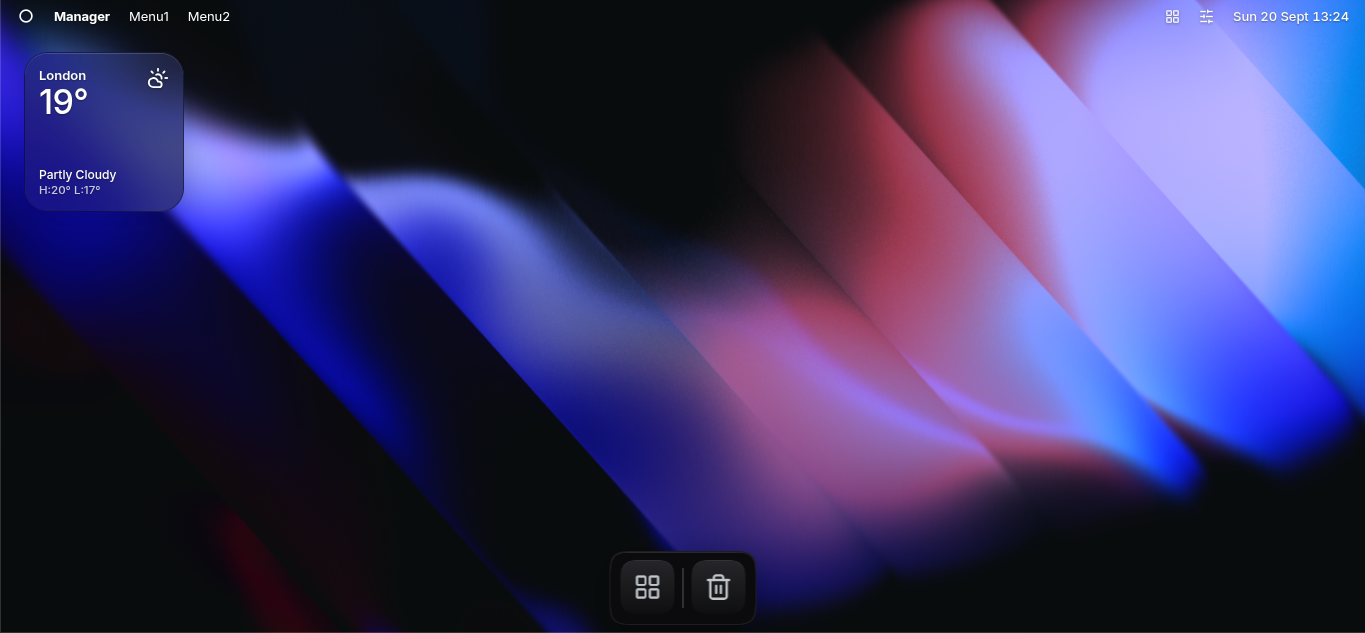
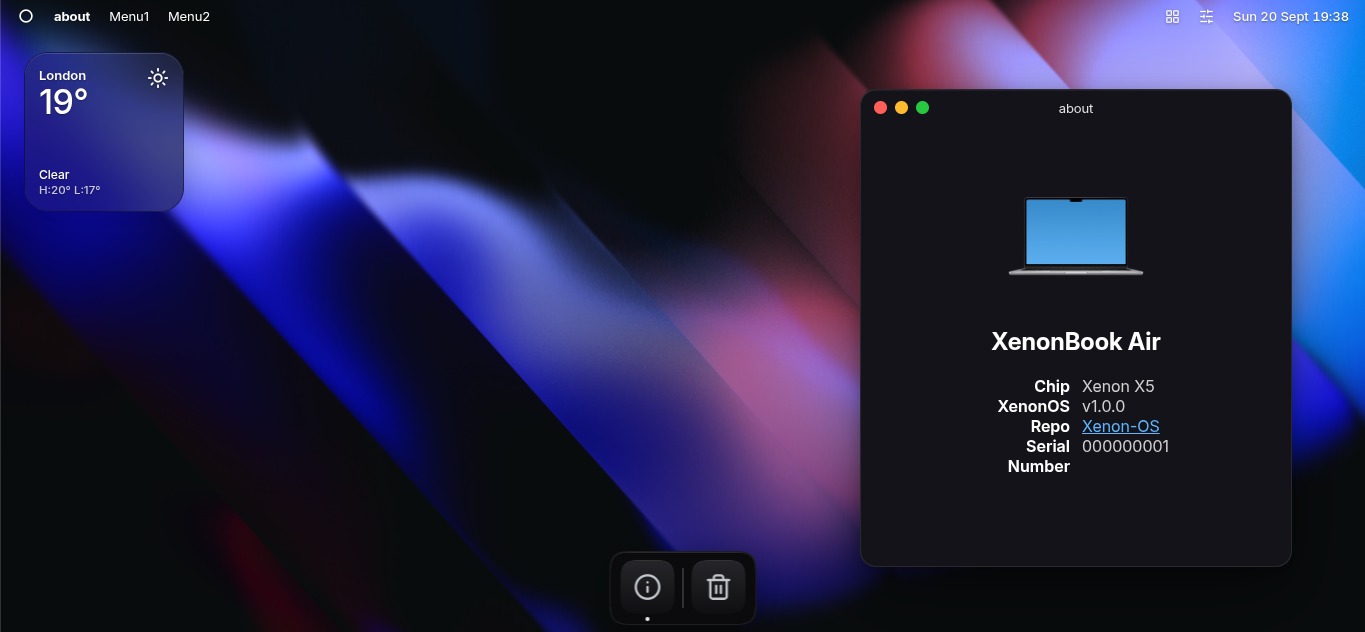
first app - about

diff --git a/apps/about.html b/apps/about.html
@@ -1,0 +1,25 @@
+<!DOCTYPE html>
+<html lang="en">
+    <head>
+        <meta charset="UTF-8">
+        <link rel="stylesheet" href="about.css">
+        <link rel="preconnect" href="https://fonts.googleapis.com">
+        <link rel="preconnect" href="https://fonts.gstatic.com" crossorigin>
+        <link href="https://fonts.googleapis.com/css2?family=Inter:ital,opsz,wght@0,14..32,100..900;1,14..32,100..900&display=swap" rel="stylesheet">
+        <script src="https://cdn.jsdelivr.net/npm/lucide@0.460.0/dist/umd/lucide.min.js"></script>
+    </head>
+
+    <body>
+        <div id="aboutXenon">
+            <img src="image.png" style="height: 80px; width: auto; margin-top: 40px;">
+            <h2 id="deviceName">XenonBook Air</h2>
+            <div id="specList">
+                <div class="specRow"><span class="specLabel">Chip</span><span class="specValue">Xenon X5</span></div>
+                <div class="specRow"><span class="specLabel">XenonOS</span><span class="specValue">v1.0.0</span></div>
+                <div class="specRow"><span class="specLabel">Repo</span><span class="specValue"><a href="github.com/daschdrioooo/Xenon-OS" id="repoLink">Xenon-OS</a></span></div>
+                <div class="specRow"><span class="specLabel">Serial Number</span><span class="specValue">000000001</span></div>
+            </div>
+        </div>
+        <script src="about.js"></script>
+    </body>
+</html>

diff --git a/desktop/desktop.js b/desktop/desktop.js
@@ -222,7 +222,7 @@ async function loadWeather() {
 
 //app library stuff
 const APPS=[
-    {name:'app',icon:'layout-grid'},
+    {name:'about',icon:'info'},
 ];
 
 const appsBtn=document.getElementById('appsBtn');
@@ -328,8 +328,9 @@ function openWindow(app) {
         </div>
         <div class="win-title">${app.name}</div>
     </div>
-    <div class="win-body"></div>
+    <iframe class="win-body" src="../apps/about.html"></iframe>
     <div class="win-resize"></div>`;
+    
     const titlebar=win.querySelector('.titlebar');
     const traffic=win.querySelector('.traffic');
     win.querySelector('.tl-close').addEventListener('click',(e)=>{e.stopPropagation();closeWindow(win);});
@@ -466,7 +467,7 @@ function startResize(e,win) {
 
 //dock
 const DOCK=[
-    {name:'app',icon:'layout-grid'},
+    {name:'about',icon:'info'},
     '-',
     {name:'Trash',icon:'trash-2'},
 ]

diff --git a/apps/about.css b/apps/about.css
@@ -1,0 +1,38 @@
+*{
+    font-family: inter;
+}
+
+#aboutXenon{
+    display: flex;
+    color: white;
+    justify-content: center;
+    align-items: center;
+    flex-direction: column;
+    padding: 24px;
+    text-align: center;
+}
+
+#deviceName{
+    margin-top: 50px;
+}
+
+.specRow{
+    display: grid;
+    grid-template-columns: 100px 100px;
+    justify-content: center;
+    gap: 12px;
+}
+
+.specLabel{
+    text-align: right;
+    font-weight: 650;
+}
+
+.specValue{
+    text-align: left;
+    color: rgba(255, 255, 255, 0.8);
+}
+
+#repoLink{
+    color: rgb(94, 182, 255);
+}

diff --git a/desktop/desktop.css b/desktop/desktop.css
@@ -574,7 +574,13 @@ body {
 .win-body {
     flex:1;
     min-height:0;
-    overflow:auto;
+    display: block;
+    width: 100%;
+    height: 100%;
+    border: none;
+    margin: 0;
+    padding: 0;
+    
 }
 
 .win-resize {

diff --git a/apps/about.js b/apps/about.js
@@ -1,0 +1,1 @@
+lucide.createIcons();

diff --git a/README.md b/README.md
@@ -12,11 +12,11 @@ Xenon-OS is a work in progress.
 
 **daschdrioooo.github.io/Xenon-OS/boot/boot.html**
 
-* **Desktop** - Main Xenon-OS desktop, with menus, apps and more
+* **Desktop** - Main Xenon-OS desktop, with menus, apps (such as 'about') and more
 
 **daschdrioooo.github.io/Xenon-OS/desktop/desktop.html**
 
-* **Setup** - **INCOMPLETE** Setup page with lucide icons, continue and back button, and password-setting
+* **Setup** - Setup page with lucide icons, continue and back button, and password-setting
 
 **daschdrioooo.github.io/Xenon-OS/setup/setup.html**
 
